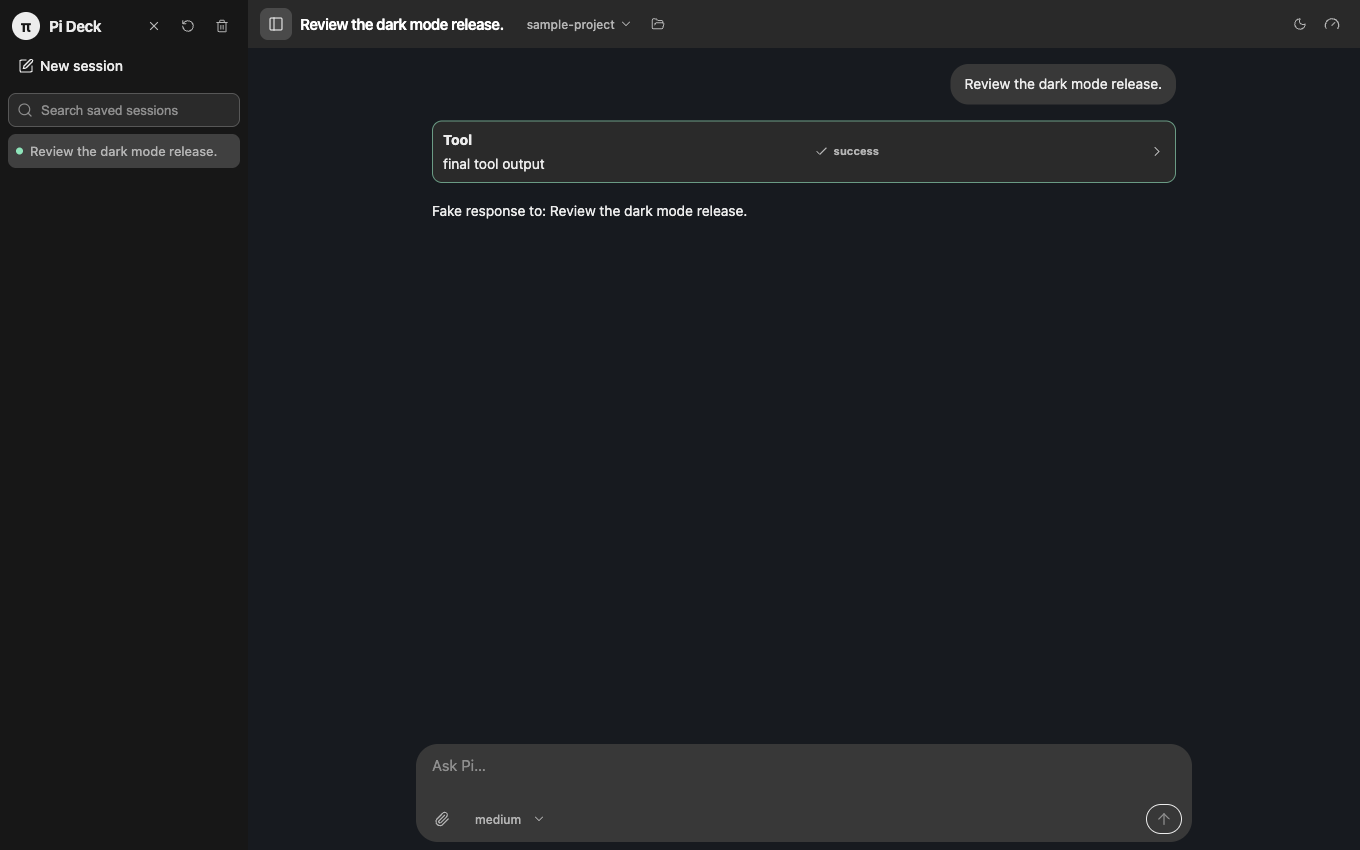
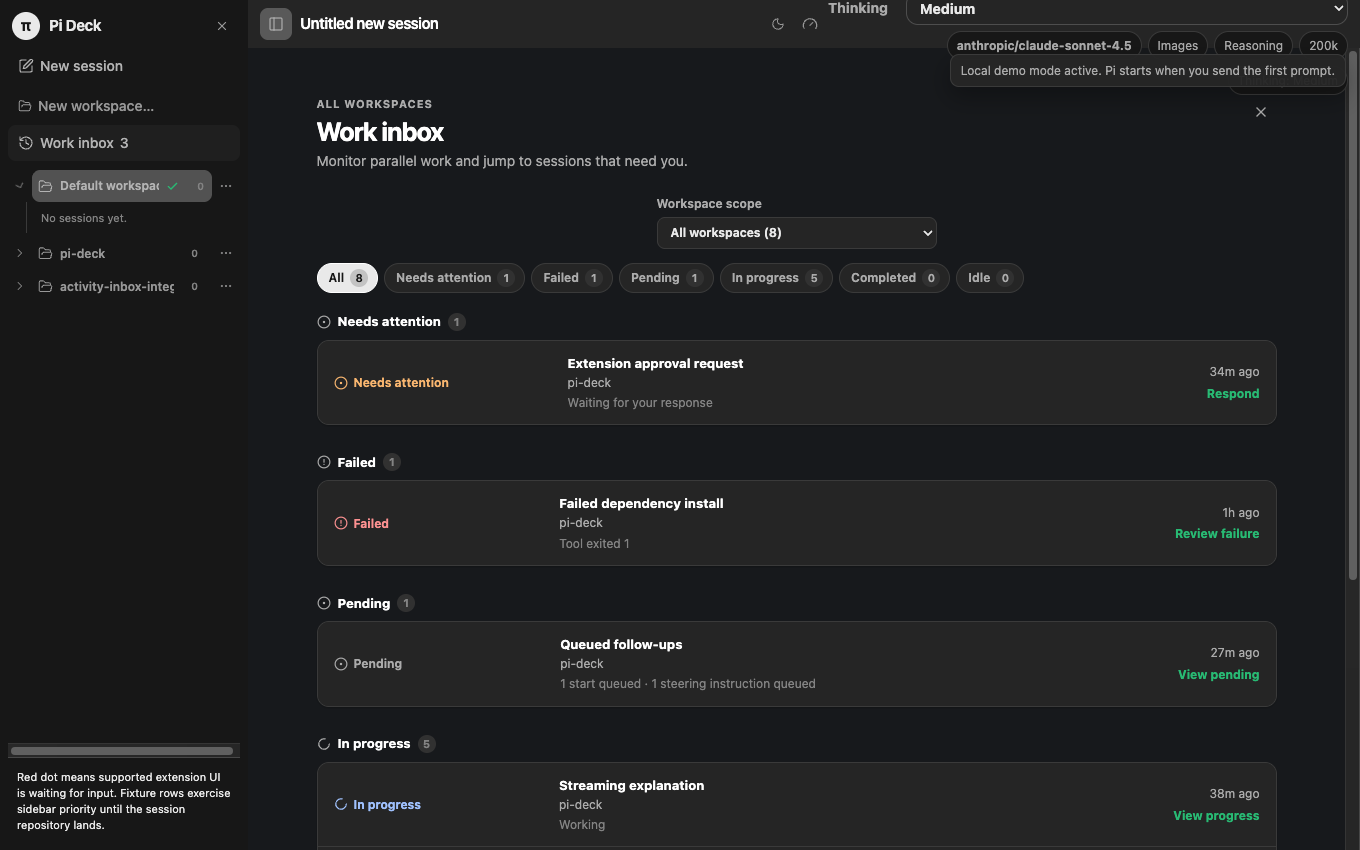
docs: refresh current workspace screenshots

diff --git a/site/index.html b/site/index.html
@@ -75,8 +75,8 @@
       <section class="screenshots section" aria-labelledby="screenshots-heading">
         <div class="section-heading"><p class="eyebrow">See the work</p><h2 id="screenshots-heading">Your Pi sessions, in focus.</h2><p>Inspect streaming replies, tool execution, thinking, and usage while the work moves forward.</p></div>
         <div class="screenshot-grid">
-          <figure><img src="assets/pi-deck.png" width="1360" height="850" alt="Pi Deck in light mode showing project sessions, a resumed conversation, tool activity, and usage statistics" /><figcaption>Projects and sessions stay visible beside the live conversation.</figcaption></figure>
-          <figure><img src="assets/pi-deck-dark.png" width="1360" height="850" alt="Pi Deck in dark mode showing a project session, tool activity, and a completed response" /><figcaption>Watch Pi think, call tools, and complete work in real time.</figcaption></figure>
+          <figure><img src="assets/pi-deck.png" width="1360" height="850" alt="Pi Deck in light mode showing workspace navigation, an active session, attachment previews, and a completed response" /><figcaption>Workspaces and sessions stay visible beside the live conversation.</figcaption></figure>
+          <figure><img src="assets/pi-deck-dark.png" width="1360" height="850" alt="Pi Deck in dark mode showing the Work inbox with workspace and status filters across parallel sessions" /><figcaption>Review parallel work across workspaces, then filter by the status that matters.</figcaption></figure>
         </div>
       </section>
 

diff --git a/README.md b/README.md
@@ -5,8 +5,8 @@
 Pi Deck is a Pi coding-agent GUI that gives Pi a dedicated desktop workspace for running, watching, and steering coding-agent sessions without opening Pi's terminal UI. It organizes sessions into named workspaces while Pi continues to use its native models, settings, tools, resources, and session files. Visit [the Pi Deck website](https://liusuzeng.github.io/pi-deck/) for an overview.
 
 <p align="center">
-  <img src="docs/assets/pi-deck.png" alt="Pi Deck in Light mode showing workspace navigation, sessions, a resumed conversation, tool activity, and usage statistics" width="49%">
-  <img src="docs/assets/pi-deck-dark.png" alt="Pi Deck in Dark mode showing workspace sessions, tool activity, and a completed response" width="49%">
+  <img src="docs/assets/pi-deck.png" alt="Pi Deck in Light mode showing workspace navigation, an active session, attachment previews, and a completed response" width="49%">
+  <img src="docs/assets/pi-deck-dark.png" alt="Pi Deck in Dark mode showing the Work inbox with workspace and status filters across parallel sessions" width="49%">
 </p>
 
 > **Status:** Pi Deck is an active, pre-release personal MVP. It currently runs from source and targets macOS.
